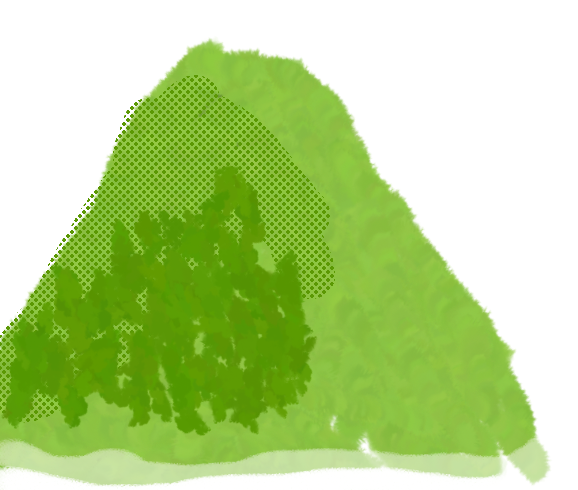
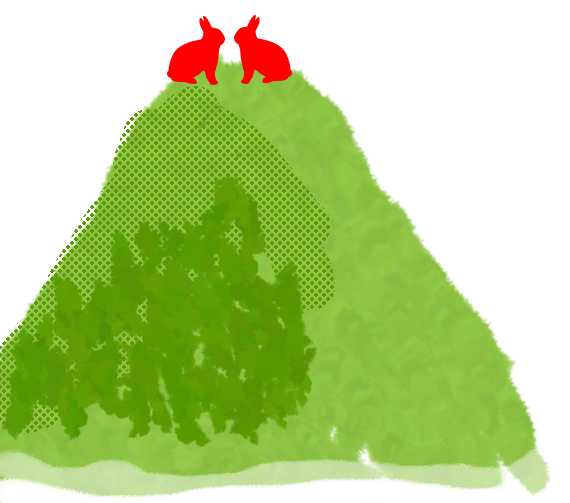
WIP

diff --git a/src/main.c b/src/main.c
@@ -46,55 +46,68 @@ typedef struct
 
 // Spot data
 
-typedef struct {
+typedef struct MovingCloud{
     Vector2 vel;
     float inner;
     float radius;
     bool isActive;
+    Vector2 sizes[4];
+    Vector2 positions[4];
+} MovingCloud;
 
-    // Shader locations
-    unsigned int posLoc;
-    unsigned int innerLoc;
-    unsigned int radiusLoc;
-    unsigned int isActiveLoc;
+typedef struct TintedSprite {
+  Color fromColor, toColor;
+  Vector2 fromPos, toPos;
+  Vector2 fromSize,toSize;
+  float progress;
+} TintedSprite;
 
-} Spot;
 
-typedef struct {
-  Color *tintsArray;
-} Sun;
-
-typedef struct { 
-  int percent;
-  Color c;
-} ColorKey;
-
-typedef struct {
+typedef struct SpriteRender{
   Texture2D *sprite;
-  ColorKey *gradientKeys;
-  int colorKeyCount; 
-} SriteComponent;
+  Rectangle sourceRect;
+  Rectangle targetRect;
+  
+} SpriteRender;
 
 
-Spot s;
 Ecs *ecs;
 EcsEnt e;
-EcsEnt *clouds;
+EcsEnt sunEntity; 
+EcsEnt mountainEntity;
+EcsEnt heartScoreEntity;
 Shader shaderClouds;
 Shader shaderSun;
 Texture2D mountain;
 Texture2D sun; 
+Texture2D heartTexture; 
+
+unsigned int cloudShaderTintColorPos;
 
 typedef enum
 {
     COMPONENT_TRANSFORM,
     COMPONENT_VELOCITY,
     COMPONENT_SPRITE,
+    COMPONENT_TINTED_SPRITE,
+    COMPONENT_HEART_SCORE_BAR,
     COMPONENT_MISSLE,
     COMPONENT_CLOUD_SPOT,
     COMPONENT_COUNT
 } ComponentType;
 
+ 
+
+Color interpolate(Color a, Color b, float t)
+{
+    // 0.0 <= t <= 1.0
+    return (Color){
+        a.r + (b.r - a.r) * t,
+        a.g + (b.g - a.g) * t,
+        a.b + (b.b - a.b) * t,
+        a.a + (b.a - a.a) * t
+    };
+}
 
 #define MOVEMENT_SYSTEM_MASK \
 ECS_MASK(1, COMPONENT_TRANSFORM)
@@ -107,6 +120,42 @@ movement_system(Ecs *ecs)
         if (ecs_ent_has_mask(ecs, e, MOVEMENT_SYSTEM_MASK))
         {
             CTransform *xform   = ecs_ent_get_component(ecs, e, COMPONENT_TRANSFORM);
+        }
+    }
+}
+
+#define SPRITE_RENDER_SYSTEM_MASK \
+ECS_MASK(3, COMPONENT_TRANSFORM,COMPONENT_SPRITE,COMPONENT_TINTED_SPRITE)
+void 
+sprite_render_system(Ecs *ecs)
+{
+    for (int i = 0; i < ecs_for_count(ecs); i++)
+    {
+        EcsEnt e = ecs_get_ent(ecs, i);
+        if (ecs_ent_has_mask(ecs, e, SPRITE_RENDER_SYSTEM_MASK))
+        {
+          TintedSprite *tintC   = ecs_ent_get_component(ecs, e, COMPONENT_TINTED_SPRITE);
+          if(tintC->progress<1.0){
+            //update
+            tintC->progress+=0.01*GetFrameTime();
+          }
+          CTransform *transformC   = ecs_ent_get_component(ecs, e, COMPONENT_TRANSFORM);
+          SpriteRender *s   = ecs_ent_get_component(ecs, e, COMPONENT_SPRITE);
+          Vector2 new_p = Vector2Lerp(tintC->fromPos,tintC->toPos,tintC->progress);
+          transformC->x = new_p.x;
+          transformC->y = new_p.y;
+          Color c = interpolate(tintC->fromColor,tintC->toColor,tintC->progress);
+          float sizeW = Lerp(tintC->fromSize.x,tintC->toSize.x,tintC->progress);
+          float sizeH = Lerp(tintC->fromSize.x,tintC->toSize.x,tintC->progress);
+          SetShaderValue(shaderClouds, cloudShaderTintColorPos,&c, SHADER_UNIFORM_VEC3);
+
+          DrawRectangle(0,0,screenWidth,screenWidth,c);
+
+          DrawTexturePro(*s->sprite,
+            s->sourceRect,
+            (Rectangle){transformC->x,transformC->y,sizeW,sizeH},
+            (Vector2){0,0},
+            0,c);
         }
     }
 }
@@ -127,7 +176,7 @@ cloud_update_system(Ecs *ecs)
         if (ecs_ent_has_mask(ecs, e, CLOUD_SYSTEM_MASK))
         {
             CTransform *xform   = ecs_ent_get_component(ecs, e, COMPONENT_TRANSFORM);
-            Spot *s   = ecs_ent_get_component(ecs, e, COMPONENT_CLOUD_SPOT);
+            MovingCloud *s   = ecs_ent_get_component(ecs, e, COMPONENT_CLOUD_SPOT);
             s->isActive = true;
             // update position based on speed 
             Vector2 transform = {xform->x,xform->y};
@@ -150,13 +199,18 @@ cloud_update_system(Ecs *ecs)
             DrawCircle(20+xform->x+Func(xform->y)*50*GetFrameTime(),33+xform->y+cos(xform->y)*50*GetFrameTime(), 50, (Color){192,232,245,255});                               
             DrawCircle(-20+xform->x+Func(xform->y)*20*GetFrameTime(),43+xform->y+cos(xform->y)*10*GetFrameTime(), 50, (Color){234,247,252,255});                               
             DrawCircle(-2+xform->x+Func(xform->y)*60*GetFrameTime(),-23+xform->y+cos(xform->y)*0.2*GetFrameTime(), 50, (Color){192,232,245,255});                               
-            DrawCircle(-80+xform->x+Func(xform->y)*60*GetFrameTime(),60+xform->y+cos(xform->y)*4*GetFrameTime(), 50, (Color){192,232,245,255});                               
+            DrawCircle(-80+xform->x+Func(xform->y)*60*GetFrameTime(),60+xform->y+cos(xform->y)*4*GetFrameTime(), 50, (Color){192,232,245,255}); 
 
-            SetShaderValue(shaderClouds, s->posLoc, &new_pos, SHADER_UNIFORM_VEC2);
-            SetShaderValue(shaderClouds, s->isActiveLoc, &act, SHADER_UNIFORM_INT);
-
+                             
         }
     }
+    // draw the heart score 
+    SpriteRender *heartRender = ecs_ent_get_component(ecs,heartScoreEntity,COMPONENT_SPRITE);
+    DrawTexturePro(*heartRender->sprite,
+    heartRender->sourceRect,
+    heartRender->targetRect,
+    (Vector2){0,0},
+    0,WHITE);       
 }
 
 void 
@@ -164,7 +218,11 @@ register_components(Ecs *ecs)
 {
     //Ecs, component index, component pool size, size of component, and component free func
     ecs_register_component(ecs, COMPONENT_TRANSFORM, 1000, sizeof(CTransform), NULL);
-    ecs_register_component(ecs, COMPONENT_CLOUD_SPOT, 1000, sizeof(Spot), NULL);
+    ecs_register_component(ecs, COMPONENT_CLOUD_SPOT, 1000, sizeof(MovingCloud), NULL);
+    ecs_register_component(ecs, COMPONENT_SPRITE, 1000, sizeof(SpriteRender), NULL);
+    ecs_register_component(ecs, COMPONENT_TINTED_SPRITE, 1000, sizeof(TintedSprite), NULL);
+
+
 }
 
 void 
@@ -176,6 +234,7 @@ register_systems(Ecs *ecs)
     //Ecs, function pointer to system (must take a parameter of Ecs), system type
     ecs_register_system(ecs, movement_system, ECS_SYSTEM_UPDATE);
     ecs_register_system(ecs, cloud_update_system, ECS_SYSTEM_CLOUD_UPDATE);
+    ecs_register_system(ecs, sprite_render_system, ECS_SYSTEM_SPRITE_RENDER);
 }
 
 
@@ -203,8 +262,11 @@ int main()
   shaderClouds = LoadShader(0, "../../resources/clouds.fs");
   mountain = LoadTexture("../../resources/mountain.png");
   sun = LoadTexture("../../resources/sun.png");
+  heartTexture = LoadTexture("../../resources/heart.png");
 
   iTimeLocation = GetShaderLocation(shaderClouds, "iTime");
+  cloudShaderTintColorPos = GetShaderLocation(shaderClouds, "tintColor");
+
 
 
   //Max entities, component count, system_count
@@ -212,52 +274,56 @@ int main()
   register_components(ecs);
   register_systems(ecs);
 
+
+  sunEntity = ecs_ent_make(ecs);
+
+  CTransform sunTransform = (CTransform){50, 50};
+  SpriteRender r; 
+  r.sourceRect = (Rectangle){0,0,sun.width,sun.height};
+  r.targetRect = (Rectangle){10,100,100,100};
+  r.sprite = &sun;
+
+  ecs_ent_add_component(ecs, sunEntity, COMPONENT_TRANSFORM, &sunTransform);    
+  ecs_ent_add_component(ecs, sunEntity, COMPONENT_SPRITE, &r);
+  TintedSprite ts; 
+  ts.fromColor = (Color){255,255,255,255};
+  ts.toColor = (Color){255,1,1,255};
+  ts.fromPos = (Vector2){50,50};
+  ts.toPos = (Vector2){550,200};
+  ts.fromSize = (Vector2){100,100};
+  ts.toSize = (Vector2){400,400};
+  ts.progress = 0;
+  ecs_ent_add_component(ecs, sunEntity, COMPONENT_TINTED_SPRITE, &ts);
+
   e = ecs_ent_make(ecs);
   CTransform xform = {0, 0};
   ecs_ent_add_component(ecs, e, COMPONENT_TRANSFORM, &xform);    
   startTime = GetTime();
 
-  Spot *cloudsStruct =  malloc(sizeof(Spot)*3);
-  for(int i = 0;i<3;i++){
-    EcsEnt *cloud = ecs_ent_make(ecs);
+  heartScoreEntity = ecs_ent_make(ecs);
 
-    CTransform cloudTransform = {0, 0};
-    char posName[32] = "spots[x].pos\0";
-    char innerName[32] = "spots[x].inner\0";
-    char radiusName[32] = "spots[x].radius\0";
-    char isActive[32] = "spots[x].isActive\0";
+  CTransform heartTransform = {200, 100};
+  ecs_ent_add_component(ecs, e, COMPONENT_TRANSFORM, &heartTransform);    
 
-    posName[6] = '0' + i;
-    innerName[6] = '0' + i;
-    radiusName[6] = '0' + i;
-    isActive[6] = '0' + i;
+  SpriteRender heartRenderer; 
+  r.sourceRect = (Rectangle){0,0,heartTexture.width,heartTexture.height};
+  r.targetRect = (Rectangle){100,200,100,100};
+  r.sprite = &heartTexture;
+  ecs_ent_add_component(ecs, heartScoreEntity, COMPONENT_SPRITE, &heartRenderer);
 
+  for (int i = 0;i<4;i++){
+    EcsEnt cloud = ecs_ent_make(ecs);
+    CTransform cloudT = {screenHeight+50, GetRandomValue(100,screenWidth)};
+    ecs_ent_add_component(ecs, e, COMPONENT_TRANSFORM, &cloudT);    
+    MovingCloud mc;
+    mc.inner=2;
+    mc.radius=2;
+    mc.isActive=true;
+    mc.vel=(Vector2){-1,0};
+    ecs_ent_add_component(ecs, e, COMPONENT_CLOUD_SPOT, &mc);    
 
-    cloudsStruct[i].posLoc = GetShaderLocation(shaderClouds, posName);
-    cloudsStruct[i].innerLoc = GetShaderLocation(shaderClouds, innerName);
-    cloudsStruct[i].radiusLoc = GetShaderLocation(shaderClouds, radiusName);
-    cloudsStruct[i].isActiveLoc = GetShaderLocation(shaderClouds, isActive);
-
-    Vector2 randPos = (Vector2){100,100};
-    cloudTransform.x = (float)randPos.x;
-    cloudTransform.y = (float)randPos.y;
-    cloudsStruct[i].vel = (Vector2){10, 10};
-
-    cloudsStruct[i].inner = 28.0f * (i + 1);
-    cloudsStruct[i].radius = 48.0f * (i + 1);
-    cloudsStruct[i].isActive = true;
-    
-    ecs_ent_add_component(ecs, cloud, COMPONENT_TRANSFORM, &cloudTransform);   
-    ecs_ent_add_component(ecs, cloud, COMPONENT_CLOUD_SPOT, &cloudsStruct[i]);
-
-    int act = 1;
-    SetShaderValue(shaderClouds, cloudsStruct[i].posLoc, &cloudTransform, SHADER_UNIFORM_VEC2);
-    SetShaderValue(shaderClouds, cloudsStruct[i].innerLoc, &cloudsStruct[i].inner, SHADER_UNIFORM_FLOAT);
-    SetShaderValue(shaderClouds, cloudsStruct[i].radiusLoc, &cloudsStruct[i].radius, SHADER_UNIFORM_FLOAT);
-    SetShaderValue(shaderClouds, cloudsStruct[i].isActiveLoc, &act, SHADER_UNIFORM_INT);
   }
-
-
+  
 
 #if defined(PLATFORM_WEB)
   emscripten_set_main_loop(UpdateDrawFrame, 0, 1);
@@ -298,6 +364,7 @@ void UpdateDrawFrame(void)
   float diff = startTime - GetTime(); 
   SetShaderValue(shaderClouds, iTimeLocation,&diff, SHADER_UNIFORM_FLOAT);
 
+
   // Update
   //----------------------------------------------------------------------------------
   // TODO: Update your variables here
@@ -310,12 +377,7 @@ void UpdateDrawFrame(void)
   ClearBackground(GRAY);
   Vector2 origin = (Vector2){0,0};
   
-  DrawRectangle(0,0,screenWidth,screenWidth,(Color){67, 166, 198,255});
-  DrawTexturePro(sun,
-    (Rectangle){0,0,sun.width,sun.height},
-    (Rectangle){10,100,100,100},
-    origin,
-    0,WHITE);  //DrawTexture(building, 0, 0, WHITE);
+  ecs_run_systems(ecs, ECS_SYSTEM_SPRITE_RENDER);
   BeginShaderMode(shaderClouds);
       // Instead of a blank rectangle you could render here
       // a render texture of the full screen used to do screen
@@ -323,14 +385,11 @@ void UpdateDrawFrame(void)
       // to actually pay attention to the colour!)
       DrawRectangle(0, 0, screenWidth, screenHeight, WHITE);
   EndShaderMode();
-  //DrawTexturePro(mountain,(Rectangle){0,0,mountain.width,mountain.height},(Rectangle){
-  //  0,300,300,300},origin,0,WHITE);
+  DrawTexturePro(mountain,(Rectangle){0,0,mountain.width,mountain.height},(Rectangle){
+  0,300,300,300},origin,0,WHITE);
   
-  DrawText("Congrats! You created your first window!", 190, 200, 20, LIGHTGRAY);
-  //DrawRectangle(100, 100, 100, 300, RED);
-  //DrawRectangleV((Vector2){300, 200}, (Vector2){100, 30}, BLUE);
-  //sysDraw.update(&e);
   ecs_run_systems(ecs, ECS_SYSTEM_CLOUD_UPDATE);
+
   EndDrawing();
   //----------------------------------------------------------------------------------
 }

diff --git a/src/ecs.h b/src/ecs.h
@@ -34,7 +34,8 @@ typedef enum
 {
     ECS_SYSTEM_UPDATE,
     ECS_SYSTEM_RENDER,
-    ECS_SYSTEM_CLOUD_UPDATE
+    ECS_SYSTEM_CLOUD_UPDATE,
+    ECS_SYSTEM_SPRITE_RENDER
 } EcsSystemType;
 
 typedef struct Ecs Ecs;
